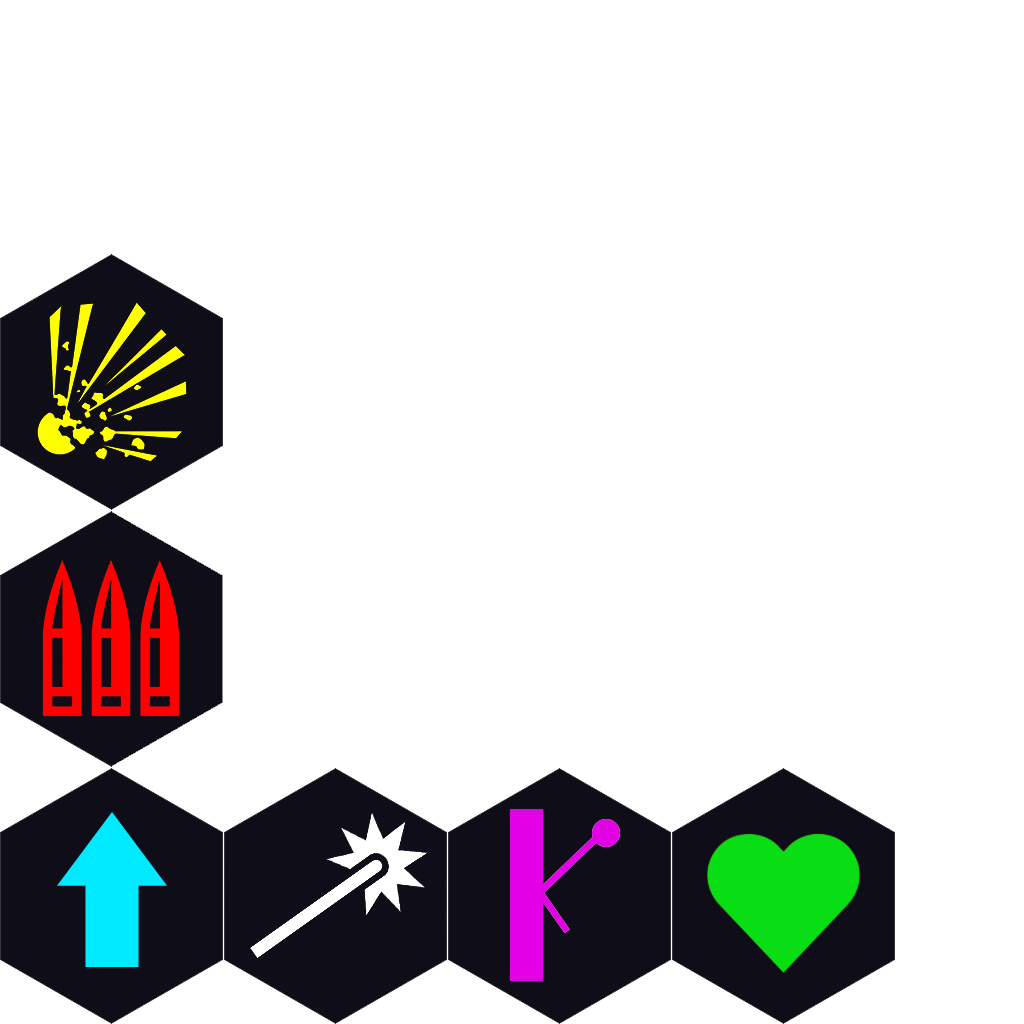
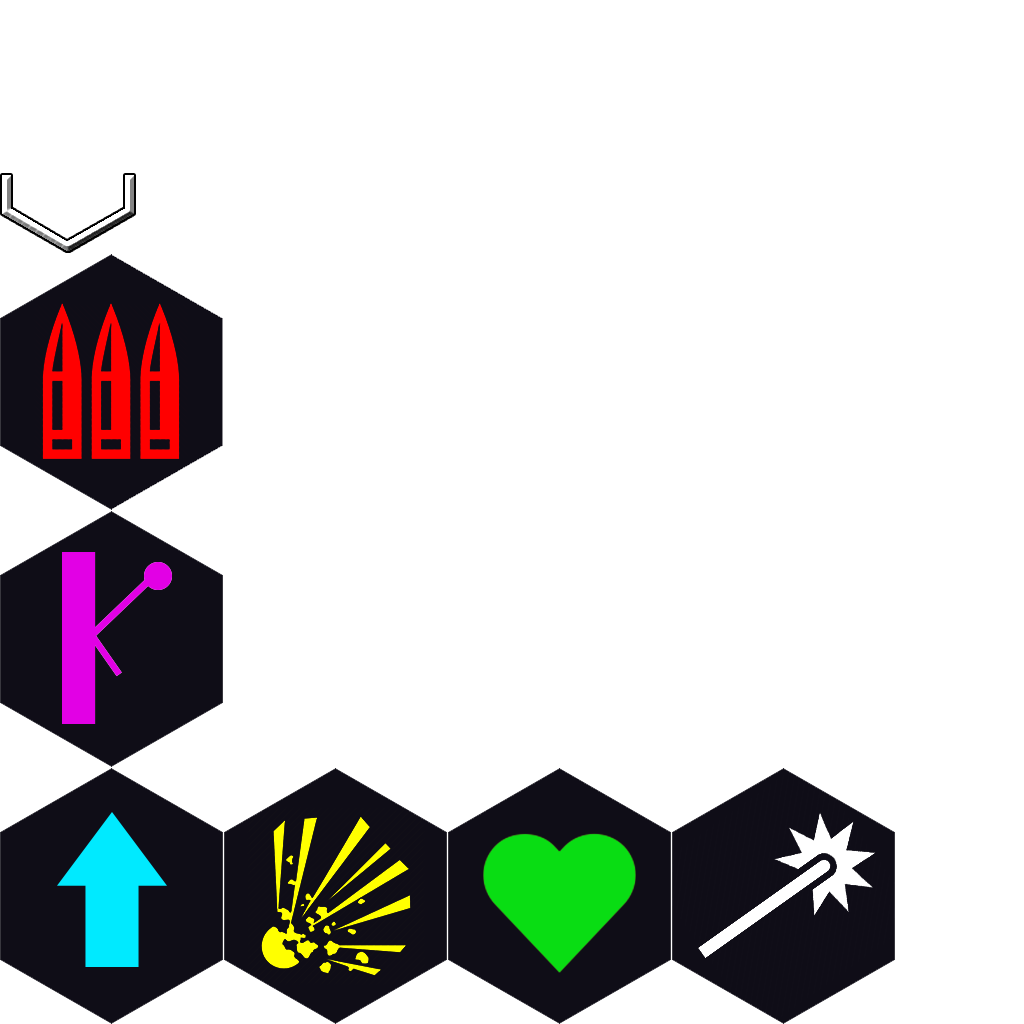
gui forse finita e iniziata bomba(se serve)

diff --git a/Assets/Scripts/Gui/PlayerPowerUpGui.cs b/Assets/Scripts/Gui/PlayerPowerUpGui.cs
@@ -17,14 +17,14 @@ public class PlayerPowerUpGui : MonoBehaviour {
 		for (int i = 0; i < icon.Length; i ++) 
 		{
 			icon[i] = gameObject.transform.GetChild(i).gameObject.GetComponent<UISprite>();
-			icon[i].enabled = false;
+            if(icon[i].gameObject.name != "Base")
+                icon[i].enabled = false;
 		}
 	}
 
     void Start()
     {
         deactive = false;
-
     }
 
 
@@ -35,13 +35,10 @@ public class PlayerPowerUpGui : MonoBehaviour {
 
 	public void Change(string name , float timer)
 	{
-        Debug.Log(icon.Length);
-
 		for (int i = 0; i < transform.childCount ; i ++) 
 		{ 
 			if(icon[i].name == name)
 			{
-                Debug.Log("comparo");
                 icon[i].enabled = true;
                 deactive = true;
                 deactiveAfter = timer;
@@ -59,7 +56,8 @@ public class PlayerPowerUpGui : MonoBehaviour {
         {
             for (int i = 0; i < transform.childCount; i++)
             {
-                icon[i].enabled = false;                
+                if (icon[i].gameObject.name != "Base")
+                    icon[i].enabled = false;
             }
 
             deactive = false;

diff --git a/Assets/Scripts/Environment/Bomb.cs b/Assets/Scripts/Environment/Bomb.cs
@@ -1,0 +1,30 @@
+using UnityEngine;
+using System.Collections;
+
+public class Bomb : MonoBehaviour {
+
+    public float RangeExplosion;
+    public float FallDownDmg;
+
+    void OnTriggerEnter(Collider col)
+    {
+        if (col.transform.CompareTag("Arena"))
+        {
+            Debug.Log("Fuggite, sciocchi");
+            Damage();
+            gameObject.SetActive(false);
+        }
+            
+    }
+
+    private void Damage()
+    { 
+        Collider[] col = Physics.OverlapSphere(transform.position, RangeExplosion);
+
+        for (int i = 0; i < col.Length; i++)
+        {
+            if (col[i].transform.CompareTag("Player") && !col[i].gameObject.GetComponent<Player>().imDied)            
+                col[i].SendMessage("TakeDamage", FallDownDmg);          
+        }
+    }
+}

diff --git a/Assets/Scripts/Gui/GUIController.cs b/Assets/Scripts/Gui/GUIController.cs
@@ -44,9 +44,9 @@ public class GUIController : MonoBehaviour {
 
     void ScoreView()
     {
-		Score[0].text = "Score  " + GameController.instance.Score[0].ToString("00") ;
-		Score[1].text = "Score  " + GameController.instance.Score[1].ToString("00") ;
-		Score[2].text = "Score  " + GameController.instance.Score[2].ToString("00") ;
-		Score[3].text = "Score  " + GameController.instance.Score[3].ToString("00") ;
+		Score[0].text = GameController.instance.Score[0].ToString("00") ;
+		Score[1].text = GameController.instance.Score[1].ToString("00") ;
+		Score[2].text = GameController.instance.Score[2].ToString("00") ;
+		Score[3].text = GameController.instance.Score[3].ToString("00") ;
     }
 }

diff --git a/Assets/Scripts/Player/Player.cs b/Assets/Scripts/Player/Player.cs
@@ -188,7 +188,6 @@ public class Player : MonoBehaviour {
 
 			if(IconGui[i].name == transform.name)
 		    {
-                Debug.Log(IconGui[i].name);
 				playerIcon = IconGui[i].GetComponent<PlayerPowerUpGui> ();
 				break;
 			}
@@ -579,8 +578,6 @@ public class Player : MonoBehaviour {
 
     private void AimScale()
     {
-        Debug.Log(inAirAim.activeInHierarchy);
-
         if (inAirAim.activeInHierarchy)
         {           
             inAirAim.transform.localScale -= new Vector3(0.1f, 0.1f, 0.1f) * Time.deltaTime;

diff --git a/Assets/Scripts/AudioManager.cs b/Assets/Scripts/AudioManager.cs
@@ -287,7 +287,6 @@ public class AudioManager : MonoBehaviour
         {
             if(fadingMusics[p] != null)
             {
-                Debug.Log(fadingMusics[p].theName);
                 if (fadingMusics[p].Fading())
                 {
                     fadingMusics[p] = null;
